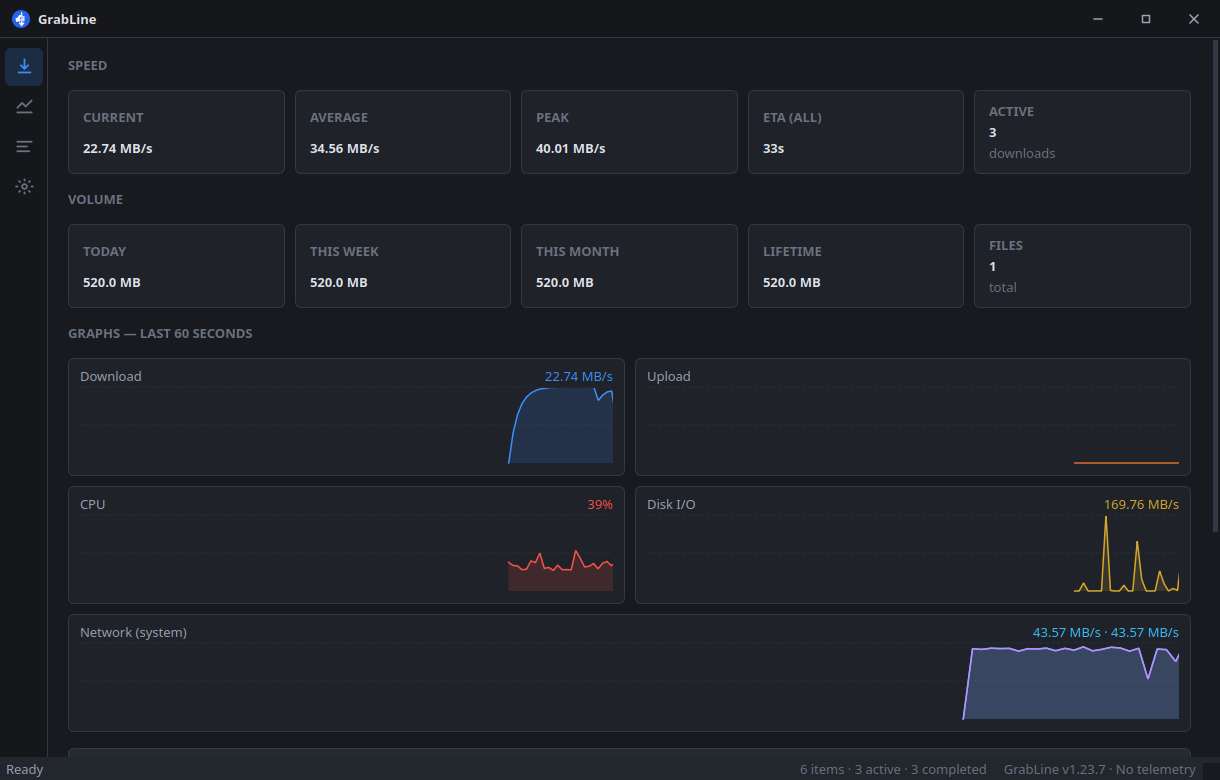
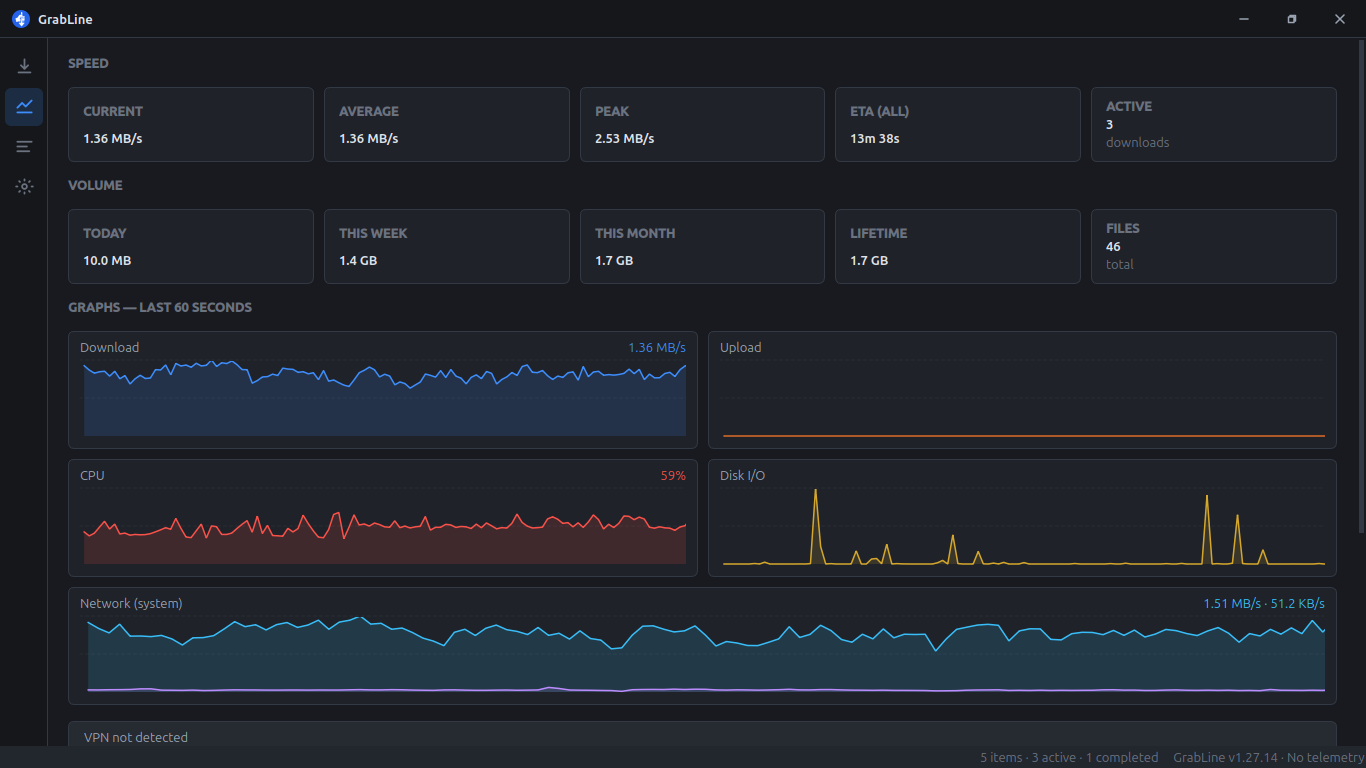
Refresh live queue and dashboard screenshots
Capture the main window with active downloads and the full dashboard
graphs from a running session, then wire them into the README and site.

diff --git a/index.html b/index.html
@@ -710,10 +710,10 @@
             </div>
             <figure class="hero-frame">
               <img
-                src="assets/shot-queue.png"
-                width="1280"
-                height="720"
-                alt="GrabLine downloads window with live speeds"
+                src="assets/shot-queue.png?v=7"
+                width="1366"
+                height="768"
+                alt="GrabLine main window with active downloads and live speeds"
                 fetchpriority="high"
               />
             </figure>
@@ -738,10 +738,10 @@
             </div>
             <figure class="frame">
               <img
-                src="assets/shot-dashboard.png"
-                width="1280"
-                height="720"
-                alt="GrabLine dashboard with live download speed and graphs"
+                src="assets/shot-dashboard.png?v=7"
+                width="1366"
+                height="768"
+                alt="GrabLine dashboard with live speed, volume stats, and graphs"
                 loading="lazy"
               />
             </figure>
@@ -765,7 +765,7 @@
             </div>
             <figure class="frame portrait">
               <img
-                src="assets/shot-quality.png"
+                src="assets/shot-quality.png?v=7"
                 width="560"
                 height="660"
                 alt="GrabLine quality picker for a video download"
